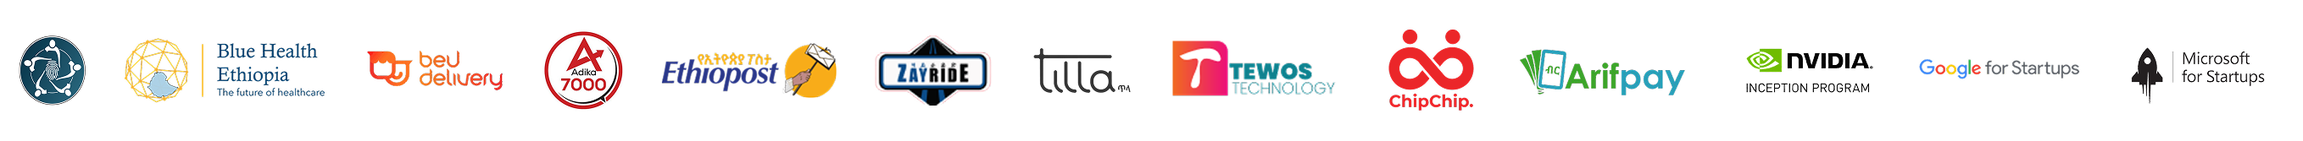
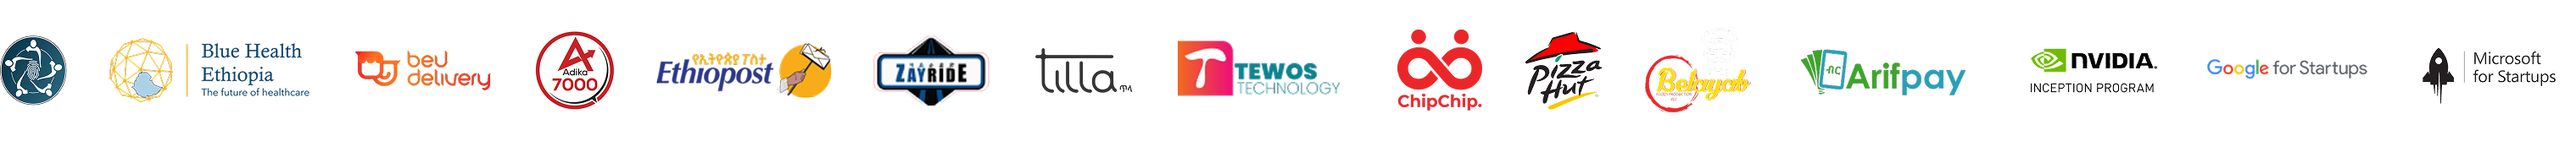
feat: Add piza hut and belay partners and change the title

Changed region(s): [[0.0, 0.2096, 1.0, 0.7784]]

diff --git a/src/sections/Partners.tsx b/src/sections/Partners.tsx
@@ -5,9 +5,7 @@ export default function Partners() {
     return (
         <Container>
             <div className="flex flex-col justify-center items-center mt-[98px]">
-                <p className="text-[12px] text-[#979BAA] tracking-20 leading-15 font-bold uppercase text-center">Location
-                    solutions
-                    powering innovative businesses</p>
+                <p className="text-[12px] text-[#979BAA] tracking-20 leading-15 font-bold uppercase text-center">Clients and Partners</p>
                 <div className="w-full flex gap-[32px] md:justify-between flex-wrap items-center mt-[40px]">
                     <div className="fade-x h-[160px] w-full overflow-hidden opacity-100 dark:opacity-1 dark:grayscale">
                         <div className="animate-scroll-x h-full w-full bg-[length:200%_auto] md:bg-[length:110%_auto]"
